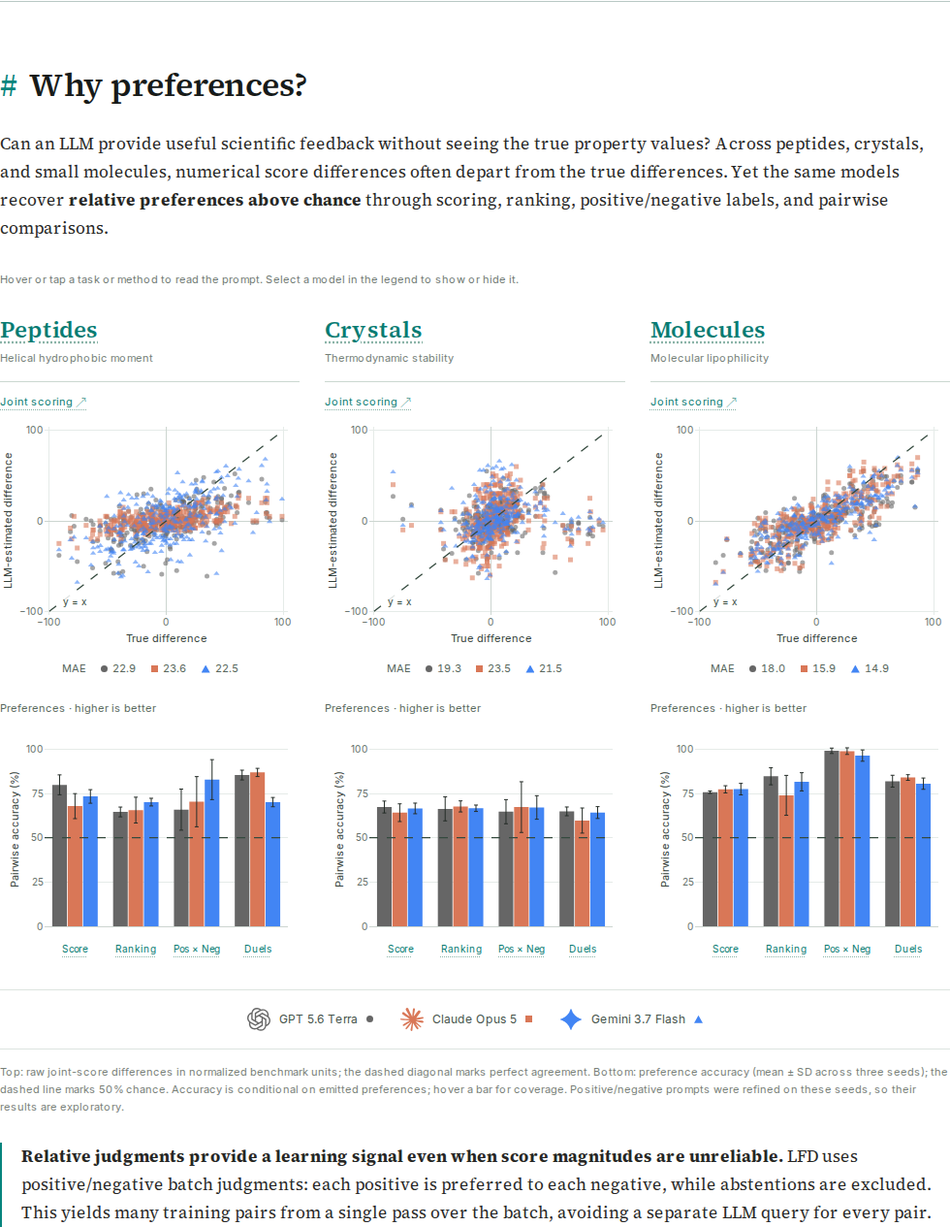
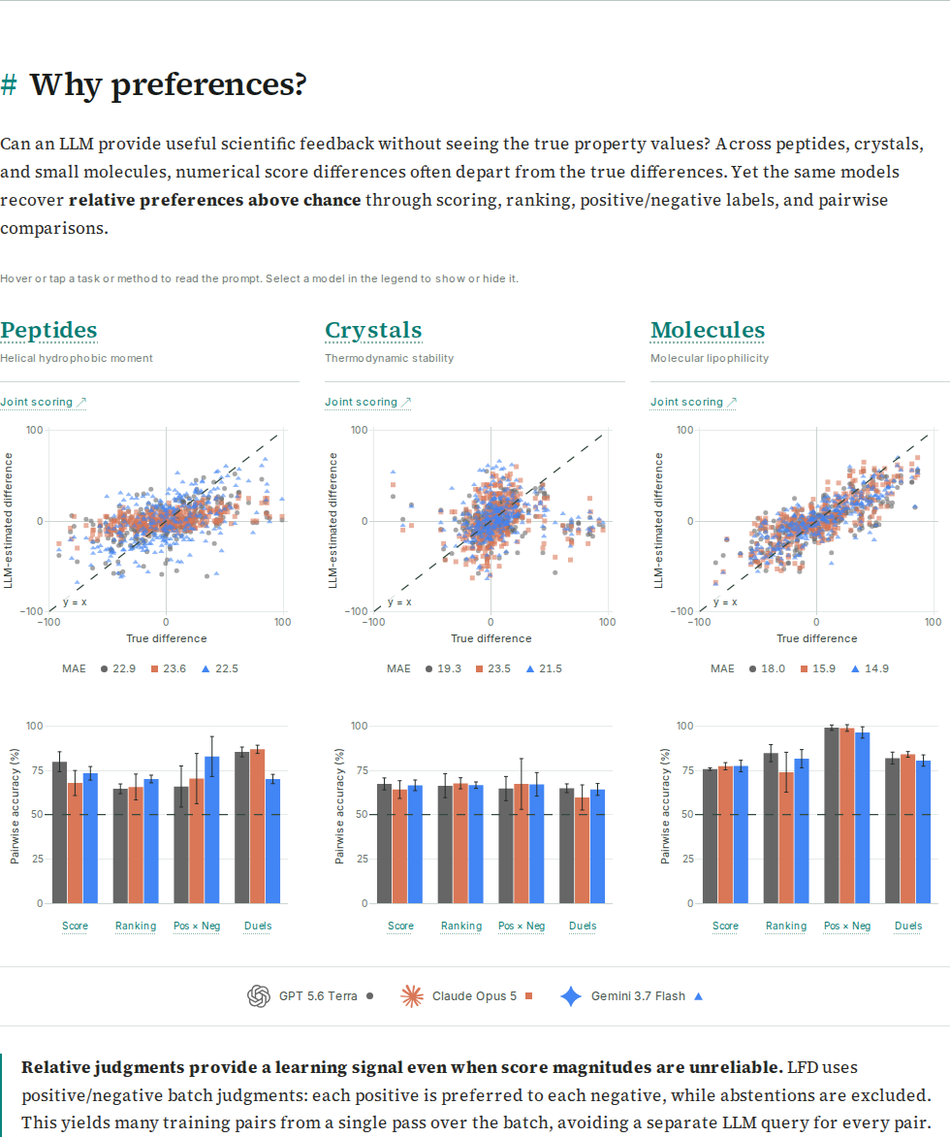
Simplify result labels and place Method before preferences

diff --git a/index.html b/index.html
@@ -16,12 +16,12 @@
   <link rel="preload" href="assets/fonts/source-serif-4-normal-latin.woff2" as="font" type="font/woff2" crossorigin>
   <link rel="preload" href="assets/fonts/inter-latin.woff2" as="font" type="font/woff2" crossorigin>
   <link rel="stylesheet" href="assets/katex/katex.min.css?v=f76ac5391ddb">
-  <link rel="stylesheet" href="site.css?v=070d38b009f5">
+  <link rel="stylesheet" href="site.css?v=6d7eabfc62a5">
   <script src="assets/katex/katex.min.js?v=608ba6519084" defer></script>
   <script src="data/site-data.js?v=64a47da44cbe" defer></script>
   <script src="assets/plotly/plotly-basic.min.js?v=99784e3abfb0" defer></script>
-  <script src="results.js?v=b1b13d96ac2e" defer></script>
-  <script src="calibration.js?v=0fd909382e11" defer></script>
+  <script src="results.js?v=748db73c27d0" defer></script>
+  <script src="calibration.js?v=96a9d06ad33f" defer></script>
   <script src="site.js?v=898189fff616" defer></script>
 </head>
 <body>
@@ -31,8 +31,8 @@
     <p class="contents-heading">Contents</p>
     <ol id="contents-list" class="contents-list">
       <li><a href="#overview" aria-current="location"><span>Overview</span></a></li>
-      <li><a href="#why-preferences"><span>1. Why preferences?</span></a></li>
-      <li><a href="#method"><span>2. Method</span></a></li>
+      <li><a href="#method"><span>1. Method</span></a></li>
+      <li><a href="#why-preferences"><span>2. Why preferences?</span></a></li>
       <li><a href="#peptides"><span>3. Peptides</span></a></li>
       <li><a href="#molecules"><span>4. Small molecules</span></a></li>
     </ol>
@@ -59,8 +59,8 @@
         <nav class="project-contents" aria-labelledby="project-contents-title">
           <h2 id="project-contents-title">Contents</h2>
           <ol>
-            <li><a href="#why-preferences">1. Why preferences?</a></li>
-            <li><a href="#method">2. Method</a></li>
+            <li><a href="#method">1. Method</a></li>
+            <li><a href="#why-preferences">2. Why preferences?</a></li>
             <li><a href="#peptides">3. Case study: Peptides</a></li>
             <li><a href="#molecules">4. Case study: Small molecules</a></li>
           </ol>
@@ -86,19 +86,6 @@
         <a href="assets/flow_adaptation_smooth.mp4" target="_blank" rel="noopener" aria-label="Open the method overview at full resolution"><video autoplay muted loop playsinline preload="auto" width="2154" height="612" poster="assets/main_ltf.png" aria-label="LLM-to-Flow Distillation overview: a scientist gives a discovery goal to an LLM teacher, which sets subgoals and evaluates a flow student as its distribution moves toward the discovery region."><source src="assets/flow_adaptation_smooth.mp4" type="video/mp4"><img src="assets/main_ltf.png" width="4546" height="1285" alt="LLM-to-Flow Distillation overview: the teacher guides the flow student toward a discovery goal."></video></a>
         <figcaption class="overview-controls"><button id="animation-toggle" type="button" aria-pressed="false">Pause animation</button><a href="assets/flow_adaptation_smooth.mp4" target="_blank" rel="noopener">View full size ↗</a></figcaption>
       </figure>
-    </section>
-
-    <section id="why-preferences" class="preferences-section wrap" aria-labelledby="preferences-title">
-      <h2 id="preferences-title" class="section-heading"><a class="section-anchor" href="#why-preferences" aria-label="Link to Why preferences?">#</a><span>Why preferences?</span></h2>
-      <p>Can an LLM provide useful scientific feedback without seeing the true property values? Across peptides, crystals, and small molecules, numerical score differences often depart from the true differences. Yet the same models recover <strong>relative preferences above chance</strong> through scoring, ranking, positive/negative labels, and pairwise comparisons.</p>
-      <figure class="calibration-figure" aria-label="Score agreement and preference accuracy across three scientific domains" aria-describedby="calibration-caption">
-        <p class="calibration-hint">Hover or tap a task or method to read the prompt. Select a model in the legend to show or hide it.</p>
-        <div id="calibration-grid" class="calibration-grid"></div>
-        <div id="calibration-legend" class="calibration-legend" role="group" aria-label="Models shown in all six plots"></div>
-        <figcaption id="calibration-caption">Top: raw joint-score differences in normalized benchmark units; the dashed diagonal marks perfect agreement. Bottom: preference accuracy (mean ± SD across three seeds); the dashed line marks 50% chance. Accuracy is conditional on emitted preferences; hover a bar for coverage. Positive/negative prompts were refined on these seeds, so their results are exploratory.</figcaption>
-      </figure>
-      <p class="preferences-takeaway"><strong>Relative judgments provide a learning signal even when score magnitudes are unreliable.</strong> LFD uses positive/negative batch judgments: each positive is preferred to each negative, while abstentions are excluded. This yields many training pairs from a single pass over the batch, avoiding a separate LLM query for every pair.</p>
-      <noscript><p>Enable JavaScript to explore the calibration results and elicitation prompts.</p></noscript>
     </section>
 
     <div class="method-band">
@@ -163,6 +150,18 @@
     </section>
 
     </div>
+
+    <section id="why-preferences" class="preferences-section wrap" aria-labelledby="preferences-title">
+      <h2 id="preferences-title" class="section-heading"><a class="section-anchor" href="#why-preferences" aria-label="Link to Why preferences?">#</a><span>Why preferences?</span></h2>
+      <p>Can an LLM provide useful scientific feedback without seeing the true property values? Across peptides, crystals, and small molecules, numerical score differences often depart from the true differences. Yet the same models recover <strong>relative preferences above chance</strong> through scoring, ranking, positive/negative labels, and pairwise comparisons.</p>
+      <figure class="calibration-figure" aria-label="Score agreement and preference accuracy across three scientific domains">
+        <p class="calibration-hint">Hover or tap a task or method to read the prompt. Select a model in the legend to show or hide it.</p>
+        <div id="calibration-grid" class="calibration-grid"></div>
+        <div id="calibration-legend" class="calibration-legend" role="group" aria-label="Models shown in all six plots"></div>
+      </figure>
+      <p class="preferences-takeaway"><strong>Relative judgments provide a learning signal even when score magnitudes are unreliable.</strong> LFD uses positive/negative batch judgments: each positive is preferred to each negative, while abstentions are excluded. This yields many training pairs from a single pass over the batch, avoiding a separate LLM query for every pair.</p>
+      <noscript><p>Enable JavaScript to explore the calibration results and elicitation prompts.</p></noscript>
+    </section>
 
     <section id="results" class="results-section wrap section-space" aria-labelledby="results-title">
       <h2 id="results-title" class="sr-only">Experiments on peptides and small molecules</h2>

diff --git a/site.css b/site.css
@@ -610,10 +610,11 @@ footer { padding-block: 26px; border-top: 1px solid var(--line); display: flex; 
 #results-table thead th { font-size: 13px; font-weight: 600; background: #fafbfc; }
 #results-table .table-method { font-size: 16px; font-weight: 600; }
 #results-table .table-mean { font-weight: 500; font-size: 15px; color: #343d4a; }
-#results-table .table-uncertainty { color: #666f7e; font-size: 12px; font-weight: 400; }
+#results-table .table-uncertainty { color: #343d4a; font-size: 12px; font-weight: 400; }
 #results-table tr.ours { background: var(--goal-surface); }
 #results-table tr.ours th { color: var(--goal-strong); box-shadow: inset 3px 0 var(--goal-accent); }
 #results-table .best .table-mean { font-weight: 700; color: var(--goal-strong); }
+#results-table .best .table-uncertainty { color: var(--goal-strong); }
 .discovery-summary { display: grid; grid-template-columns: minmax(0,1fr) minmax(0,360px); gap: 32px; padding: 0 0 28px; align-items: center; }
 .discovery-prior { padding: 0 0 20px; border-bottom: 1px solid var(--goal-border); }
 .discovery-zero { display: flex; align-items: baseline; flex-wrap: wrap; gap: 10px; font-size: 58px; font-weight: 600; letter-spacing: -1.8px; line-height: 1.3; color: var(--goal-strong); font-variant-numeric: tabular-nums; }
@@ -762,7 +763,6 @@ footer { padding-block: 26px; border-top: 1px solid var(--line); display: flex; 
 .calibration-legend button[aria-pressed="false"] { opacity: .35; }
 .calibration-legend button[aria-pressed="false"] > span:nth-child(2) { text-decoration: line-through; }
 .calibration-logo { width: 24px; height: 24px; background: var(--model-color); mask: var(--logo) center / contain no-repeat; -webkit-mask: var(--logo) center / contain no-repeat; }
-.calibration-figure figcaption { margin-top: 14px; font: 11px/1.65 var(--sans); color: #788078; text-align: left; }
 .preferences-takeaway { border-left: 2px solid #07857d; padding-left: 20px; margin-top: 28px; }
 .calibration-prompt-dialog { position: fixed; z-index: 100; width: min(470px,calc(100vw - 24px)); max-height: min(660px,calc(100dvh - 24px)); overflow-y: auto; padding: 22px; border: 1px solid #a6beb0; border-radius: 7px; background: #fff; box-shadow: 0 12px 38px #19372526; font: 13px/1.65 var(--sans); color: #35463a; }
 .calibration-prompt-dialog[hidden] { display: none; }
@@ -804,16 +804,14 @@ footer { padding-block: 26px; border-top: 1px solid var(--line); display: flex; 
 .result-snapshot h4 { margin: 0 0 1px; color: var(--goal-strong); font-size: 18px; line-height: 1.4; font-weight: 600; }
 .snapshot-metric { margin: 0 0 16px; color: #727c77; font: 11px/1.5 var(--sans); }
 .snapshot-metric .metric-help-label { font-size: 11px; min-height: 22px; padding: 0; }
-.snapshot-comparison { display: flex; align-items: center; gap: 24px; margin: 0 0 18px; }
+.snapshot-comparison { display: flex; align-items: center; gap: 16px; margin: 0; }
 .snapshot-value { display: flex; flex-direction: column; }
 .snapshot-value > span:first-child { font: 10px/1.4 var(--sans); color: #757d78; margin-bottom: 5px; }
-.snapshot-value strong { font-size: 31px; font-weight: 400; letter-spacing: -.5px; line-height: 1.3; font-variant-numeric: tabular-nums; }
+.snapshot-value strong { display: inline-flex; align-items: baseline; gap: 5px; white-space: nowrap; font-size: 31px; font-weight: 400; letter-spacing: -.5px; line-height: 1.3; font-variant-numeric: tabular-nums; }
 .snapshot-value strong small { font-size: .6em; margin-left: 2px; }
 .snapshot-ours strong, .snapshot-ours > span:first-child { color: #8732ad; }
-.snapshot-uncertainty { font: 11px/1.4 var(--sans); color: #737b76; margin-top: 3px; }
+.snapshot-uncertainty { font: 11px/1.4 var(--sans); color: inherit; letter-spacing: 0; }
 .snapshot-arrow { color: #9ba9a0; font-size: 21px; }
-.snapshot-link { display: flex; align-items: center; gap: 18px; min-height: 32px; margin-top: auto; border: 0; border-bottom: 1px solid #c9d6cf; background: none; padding: 3px 0; font: 12px/1.5 var(--sans); color: var(--goal-strong); }
-.snapshot-link:hover { border-color: currentColor; }
 .snapshot-hit { display: grid; gap: 9px; margin: 0 0 15px; font: 10px/1.5 var(--sans); color: #69766e; }
 .snapshot-hit > span { display: block; }
 .snapshot-hit strong { display: block; font: 23px/1.35 var(--serif); color: #2d473a; }
@@ -854,6 +852,11 @@ footer { padding-block: 26px; border-top: 1px solid var(--line); display: flex; 
   .hero-figure { width: 100%; margin-inline: 0; }
   .overview-controls { margin-inline: 0; }
 }
+@media (min-width: 761px) and (max-width: 900px) {
+  #molecules .case-results-summary { grid-template-columns: repeat(2,minmax(0,1fr)); }
+  .discovery-snapshot { grid-column: 1 / -1; border-left: 0 !important; border-top: 1px solid var(--goal-border); padding: 22px 0 0 !important; }
+  .snapshot-hit { grid-template-columns: repeat(2,minmax(0,1fr)); gap: 24px; width: 100%; }
+}
 @media (max-width: 760px) {
   .affiliations { display: grid; grid-template-columns: repeat(3,minmax(0,1fr)); gap: 12px 14px; }
   .institution { justify-content: flex-start; }
@@ -876,7 +879,7 @@ footer { padding-block: 26px; border-top: 1px solid var(--line); display: flex; 
 @media (max-width: 520px) {
   .case-results-summary, #molecules .case-results-summary { grid-template-columns: minmax(0,1fr); }
   .result-snapshot + .result-snapshot { border-left: 0; border-top: 1px solid var(--goal-border); padding: 20px 0 0; }
-  .snapshot-comparison { gap: 28px; }
+  .snapshot-comparison { gap: 16px; }
   .snapshot-value strong { font-size: 31px; }
   .snapshot-hit { grid-template-columns: 1fr; gap: 12px; }
   .result-card { padding-inline: 17px 45px; }
@@ -885,6 +888,10 @@ footer { padding-block: 26px; border-top: 1px solid var(--line); display: flex; 
   .goal-prompt { font-size: 14px; }
   #figure-viewer { width: calc(100vw - 24px); padding: 16px; }
   #figure-viewer-title { font-size: 16px; }
+}
+@media (min-width: 521px) and (max-width: 680px) {
+  .case-results-summary, #molecules .case-results-summary { grid-template-columns: minmax(0,1fr); }
+  .result-snapshot + .result-snapshot { border-left: 0; border-top: 1px solid var(--goal-border); padding: 20px 0 0; }
 }
 
 /* A visible contents list and resource previews, following the reading order. */

diff --git a/results.js b/results.js
@@ -267,17 +267,16 @@
     const names={anticancer:'Selective anticancer activity',cpp:'Cell penetration',d2:'Dopamine D2 binding',gsk3b:'GSK3β binding',ood:'Specified ring motifs'};
     const result=results.find(item=>item.id===id);
     const heading=`<h4>${names[id]}</h4>`;
-    const link=`<button type="button" class="snapshot-link" data-open-result="${id}">Explore results <span aria-hidden="true">↗</span><span class="sr-only"> for ${names[id]}</span></button>`;
     if (!result) {
       const evidence=window.LFD_DATA.resultPanels.oodEvidence;
-      return `<article class="result-snapshot discovery-snapshot">${heading}<p class="snapshot-metric">Full discovery prompt</p><div class="snapshot-hit"><span><strong>0 / ${evidence.pretrained.attempts.toLocaleString('en-US')}</strong> pretrained samples satisfy the goal</span><span><strong>A full-goal hit</strong> LFD · round ${evidence.lfd.round}, ${evidence.lfd.batchSize} samples</span></div>${link}</article>`;
+      return `<article class="result-snapshot discovery-snapshot">${heading}<p class="snapshot-metric">Full discovery prompt</p><div class="snapshot-hit"><span><strong>0 / ${evidence.pretrained.attempts.toLocaleString('en-US')}</strong> pretrained samples satisfy the goal</span><span><strong>A full-goal hit</strong> LFD · round ${evidence.lfd.round}, ${evidence.lfd.batchSize} samples</span></div></article>`;
     }
     const metric=metricKeys(result)[0];
     const values=['Pre-trained','LFD'].map(method=>{
       const [mean,error]=result.rows.find(row=>row.method===method).values[0];
-      return `<div class="snapshot-value ${method==='LFD' ? 'snapshot-ours' : ''}"><span>${method==='Pre-trained' ? 'Pretrained' : 'LFD'}</span><strong>${mean.toFixed(2)}<small>${result.unit==='%' ? '%' : ''}</small></strong><span class="snapshot-uncertainty">± ${error.toFixed(2)}</span></div>`;
+      return `<div class="snapshot-value ${method==='LFD' ? 'snapshot-ours' : ''}"><span>${method==='Pre-trained' ? 'Pretrained' : 'LFD'}</span><strong><span class="snapshot-mean">${mean.toFixed(2)}<small>${result.unit==='%' ? '%' : ''}</small></span><span class="snapshot-uncertainty">± ${error.toFixed(2)}</span></strong></div>`;
     });
-    return `<article class="result-snapshot" data-snapshot="${id}">${heading}<div class="snapshot-metric">${metricLabel(metric,result.metrics[0].label+' ↑')}</div><div class="snapshot-comparison">${values[0]}<span class="snapshot-arrow" aria-hidden="true">→</span>${values[1]}</div>${link}</article>`;
+    return `<article class="result-snapshot" data-snapshot="${id}">${heading}<div class="snapshot-metric">${metricLabel(metric,result.metrics[0].label+' ↑')}</div><div class="snapshot-comparison">${values[0]}<span class="snapshot-arrow" aria-hidden="true">→</span>${values[1]}</div></article>`;
   }
   function init(results) {
     const data=window.LFD_DATA;
@@ -407,17 +406,6 @@
       $('#curriculum-'+task.id+'-'+task.stages[next].id).focus({preventScroll:true});
     });
     cards.addEventListener('click',event=>{
-      const snapshot=event.target.closest('[data-open-result]');
-      if (snapshot) {
-        const id=snapshot.dataset.openResult;
-        if (active!==id) render(id);
-        if ($('#goal-results-toggle').getAttribute('aria-expanded')!=='true') $('#goal-results-toggle').click();
-        requestAnimationFrame(()=>{
-          $('#goal-results-toggle').focus({preventScroll:true});
-          $('#goal-results-title').scrollIntoView({block:'start',behavior:'instant'});
-        });
-        return;
-      }
       const card=event.target.closest('[data-result-task]');
       if (!card) return;
       if (active===card.dataset.resultTask) closeGoal();

diff --git a/calibration.js b/calibration.js
@@ -19,7 +19,6 @@
       <div class="calibration-mae" aria-label="Mean absolute error"><span>MAE</span>${domain.series.map(series => {const model = data.models.find(m => m.id === series.model); return `<span data-mae-model="${model.id}" title="${esc(model.label)}: mean absolute error ${series.mae.toFixed(2)}">${marker(model)}${series.mae.toFixed(1)}</span>`;}).join('')}</div>
     </div>
     <div class="calibration-accuracy-panel">
-      <p class="calibration-row-label">Preferences · higher is better</p>
       <div id="calibration-bars-${domain.id}" class="calibration-plot calibration-bars" tabindex="0" role="group" aria-label="${esc(domain.label)}: pairwise accuracy by elicitation method. Arrow keys inspect bars; Escape dismisses the value."></div>
       <div class="calibration-methods">${data.methods.map(method => promptButton(domain, method, esc(data.prompts.methods[method].label))).join('')}</div>
     </div>
@@ -63,7 +62,7 @@
             customdata: series.bars.map(b => [data.prompts.methods[b.method].label, b.sd, b.emitted, b.selected]),
             marker: {color: model.color},
             error_y: {type: 'data', array: series.bars.map(b => b.sd), visible: true, color: '#252d28', thickness: 1, width: 2},
-            hovertemplate: `<b>${esc(model.label)}</b><br>%{customdata[0]} · ${esc(domain.label)}<br>Accuracy: %{y:.2f}% ± %{customdata[1]:.2f} SD<br>Emitted pairs: %{customdata[2]} / %{customdata[3]}<br>Mean across 3 seeds<extra></extra>`};
+            hovertemplate: `<b>${esc(model.label)}</b><br>%{customdata[0]} · ${esc(domain.label)}<br>Accuracy: %{y:.2f}% ± %{customdata[1]:.2f} SD<extra></extra>`};
         });
         await Plotly.newPlot(element, traces, layout(kind), {responsive: true, displayModeBar: false, scrollZoom: false});
         charts.push(element);
@@ -77,7 +76,7 @@
           selected = (selected + (['ArrowLeft', 'ArrowUp'].includes(event.key) ? -1 : 1) + points.length) % points.length;
           const point = points[selected], trace = traces[point.curveNumber], i = point.pointNumber;
           Plotly.Fx.hover(element, [point]);
-          live.textContent = kind === 'scatter' ? `${trace.name}. True difference ${trace.x[i].toFixed(2)}; LLM difference ${trace.y[i].toFixed(2)}.` : `${trace.name}, ${trace.customdata[i][0]}. Accuracy ${trace.y[i].toFixed(2)} percent, SD ${trace.customdata[i][1].toFixed(2)}; ${trace.customdata[i][2]} of 288 pairs emitted.`;
+          live.textContent = kind === 'scatter' ? `${trace.name}. True difference ${trace.x[i].toFixed(2)}; LLM difference ${trace.y[i].toFixed(2)}.` : `${trace.name}, ${trace.customdata[i][0]}. Accuracy ${trace.y[i].toFixed(2)} percent, SD ${trace.customdata[i][1].toFixed(2)}.`;
         });
         element.addEventListener('blur', () => Plotly.Fx.unhover(element));
       }

diff --git a/scripts/check_case_studies.py b/scripts/check_case_studies.py
@@ -41,7 +41,7 @@ def main():
             for group, ids in [('peptides', ['anticancer', 'cpp']), ('molecules', ['d2', 'gsk3b', 'ood'])]:
                 section = page.locator('#' + group)
                 assert section.locator('[data-result-task]').evaluate_all('(els)=>els.map(el=>el.dataset.resultTask)') == ids
-                assert section.locator('[data-open-result]').evaluate_all('(els)=>els.map(el=>el.dataset.openResult)') == ids
+                assert section.locator('[data-open-result], .snapshot-link').count() == 0
             # Summary values come from the same exact means and uncertainty terms as the full tables.
             for result in results:
                 card = page.locator(f'[data-snapshot="{result["id"]}"]')
@@ -49,8 +49,15 @@ def main():
                     mean, error = next(row for row in result['rows'] if row['method'] == method)['values'][0]
                     value = card.locator('.snapshot-value').nth(index)
                     unit = '%' if result['unit'] == '%' else ''
-                    expect(value.locator('strong')).to_have_text(f'{mean:.2f}{unit}')
+                    expect(value.locator('.snapshot-mean')).to_have_text(f'{mean:.2f}{unit}')
                     expect(value.locator('.snapshot-uncertainty')).to_have_text(f'± {error:.2f}')
+                    assert value.evaluate('''el => {
+                        const mean = el.querySelector('.snapshot-mean'), sd = el.querySelector('.snapshot-uncertainty');
+                        const a = mean.getBoundingClientRect(), b = sd.getBoundingClientRect();
+                        return getComputedStyle(mean).color === getComputedStyle(sd).color &&
+                            parseFloat(getComputedStyle(sd).fontSize) < parseFloat(getComputedStyle(mean).fontSize) &&
+                            b.x >= a.right && b.x - a.right < 8 && b.top < a.bottom;
+                    }''')
             hit = page.locator('.discovery-snapshot')
             expect(hit).to_contain_text(f'0 / {evidence["pretrained"]["attempts"]:,}')
             expect(hit).to_contain_text(f'round {evidence["lfd"]["round"]}, {evidence["lfd"]["batchSize"]} samples')
@@ -64,15 +71,16 @@ def main():
             expect(control).to_have_text('Pause animation')
             control.click()
             expect(video).to_have_js_property('paused', True)
-            # Direct result links open the correct goal and skip no data in the comparison.
+            # Results remain accessible through the goal and its Results disclosure.
             for task in ['anticancer', 'cpp', 'd2', 'gsk3b', 'ood']:
-                button = page.locator(f'[data-open-result="{task}"]')
+                button = page.locator(f'[data-result-task="{task}"]')
                 if width == 390:
                     button.tap()
                 else:
                     button.focus()
                     page.keyboard.press('Enter')
                 expect(page.locator(f'[data-result-task="{task}"]')).to_have_attribute('aria-expanded', 'true')
+                page.locator('#goal-results-toggle').click()
                 expect(page.locator('#goal-results-content')).to_be_visible()
                 expect(page.locator('#goal-results-toggle')).to_be_focused()
                 page.wait_for_function('(task)=>document.querySelector("#task-results-panel").dataset.plotReadyTask===task', arg=task)
@@ -80,6 +88,9 @@ def main():
                 if task != 'ood':
                     source = next(item for item in results if item['id'] == task)
                     assert page.locator('#results-table tbody tr').count() == len(source['rows'])
+                    assert page.locator('#results-table tbody td').evaluate_all('''cells => cells.every(cell =>
+                        getComputedStyle(cell.querySelector('.table-mean')).color ===
+                        getComputedStyle(cell.querySelector('.table-uncertainty')).color)''')
                 else:
                     expect(page.locator('#result-discovery')).to_be_visible()
                 if task in ['d2', 'gsk3b', 'ood']:
@@ -127,7 +138,7 @@ def main():
     assert not errors, errors
     assert not failures, failures
     report = {'status': 'passed', 'author_links': 9, 'institution_logos': 6,
-              'case_studies': 2, 'source_derived_summaries': 5, 'direct_results': 'keyboard and touch',
+              'case_studies': 2, 'source_derived_summaries': 5, 'goal_results': 'keyboard and touch',
               'figure_viewer': '3 figures, keyboard and touch, focus restoration',
               'reduced_motion_and_playback': 'passed', 'viewports': [390, 768, 1440],
               'browser_errors': errors, 'failed_requests': failures}

diff --git a/scripts/check_browser.py b/scripts/check_browser.py
@@ -43,13 +43,13 @@ def main():
         page.evaluate('window.scrollTo({top: 300, behavior: "instant"})')
         expect(page.locator('#contents')).to_be_visible()
         expect(page.locator('.contents-list a[aria-current]')).to_have_attribute('href', '#overview')
-        for section in ['why-preferences', 'method', 'peptides', 'molecules']:
+        for section in ['method', 'why-preferences', 'peptides', 'molecules']:
             page.locator(f'.contents-list a[href="#{section}"]').click()
             expect(page.locator('.contents-list a[aria-current]')).to_have_attribute('href', '#' + section)
             assert page.evaluate('location.hash') == '#' + section
             assert page.evaluate('document.activeElement.closest("section").id') == section
         # Scroll independently from the menu; tracking must work in both directions.
-        for section in ['molecules', 'peptides', 'method', 'why-preferences']:
+        for section in ['molecules', 'peptides', 'why-preferences', 'method']:
             page.locator('#' + section).evaluate('(el) => el.scrollIntoView({behavior: "instant"})')
             expect(page.locator('.contents-list a[aria-current]')).to_have_attribute('href', '#' + section)
         page.evaluate('window.scrollTo({top: 0, behavior: "instant"})')
@@ -59,7 +59,7 @@ def main():
         expect(page.locator('.paper-preview img')).to_have_js_property('complete', True)
         assert page.locator('.paper-preview img').evaluate('(el)=>el.naturalWidth>0')
         expect(page.locator('.code-button')).to_have_attribute('href', 'https://github.com/FedericoDiGennaro/LLM-to-Flow-Distillation')
-        for section in ['why-preferences', 'method', 'peptides', 'molecules']:
+        for section in ['method', 'why-preferences', 'peptides', 'molecules']:
             page.locator(f'.project-contents a[href="#{section}"]').focus()
             page.keyboard.press('Enter')
             expect(page.locator('.contents-list a[aria-current]')).to_have_attribute('href', '#' + section)
@@ -193,7 +193,7 @@ def main():
                 assert page.evaluate('document.documentElement.scrollWidth') <= width, f'{task["id"]} overflow at {width}px'
             if width < 1280:
                 page.locator('#method').evaluate('(el) => el.scrollIntoView({behavior: "instant"})')
-                expect(page.locator('.contents-current')).to_have_text('2. Method')
+                expect(page.locator('.contents-current')).to_have_text('1. Method')
                 expect(page.locator('.contents-list')).not_to_be_visible()
                 page.locator('.contents-toggle').click()
                 expect(page.locator('.contents-toggle')).to_have_attribute('aria-expanded', 'true')

diff --git a/scripts/check_calibration.py b/scripts/check_calibration.py
@@ -21,6 +21,8 @@ def main():
         page.on('response', lambda r: bad_requests.append(r.url) if r.status >= 400 else None)
         page.goto(args.url + '/#why-preferences', wait_until='networkidle')
         expect(page.locator('#calibration-grid')).to_have_attribute('data-ready', 'true')
+        assert page.locator('.project-contents a').evaluate_all('(els)=>els.map(el=>el.hash)') == ['#method', '#why-preferences', '#peptides', '#molecules']
+        assert page.locator('#method').bounding_box()['y'] < page.locator('#why-preferences').bounding_box()['y'] < page.locator('#peptides').bounding_box()['y']
         assert page.locator('#calibration-grid .js-plotly-plot').count() == 6
         for domain in data['domains']:
             for kind in ['scatter', 'bars']:
@@ -57,7 +59,11 @@ def main():
         bar = page.locator('#calibration-bars-peptide .barlayer .trace').first.locator('.point path').first
         # Plotly's transparent event layer intentionally sits above the SVG bar.
         bar.hover(force=True)
-        expect(page.locator('#calibration-bars-peptide .hovertext')).to_contain_text('Emitted pairs: 274 / 288')
+        expect(page.locator('#calibration-bars-peptide .hovertext')).to_contain_text('Accuracy: 79.89% ± 5.61 SD')
+        expect(page.locator('#calibration-bars-peptide .hovertext')).not_to_contain_text('Emitted pairs')
+        expect(page.locator('#calibration-bars-peptide .hovertext')).not_to_contain_text('Mean across')
+        assert page.locator('#calibration-caption').count() == 0
+        assert 'Preferences · higher is better' not in page.locator('#calibration-grid').inner_text()
         page.locator('#calibration-scatter-peptide').focus()
         page.keyboard.press('ArrowRight')
         expect(page.locator('#calibration-scatter-peptide .hovertext')).to_contain_text('Absolute error')

diff --git a/README.md b/README.md
@@ -74,7 +74,7 @@ Visual references supplied by the authors: [CUES](https://www.sophielwang.com/cu
 
 Interactive chart checks are in `scripts/check_results.py`. They verify all five task switches and keyboard/touch controls, peptide activity/toxicity coordinates, grouped docking deltas with negative improvements, signed hover values and black error bars, the GSK3β novelty plot and table layout, always-visible docking figures, the fifth-task evidence, and layouts from 360px through 2560px.
 
-Case-study checks are in `scripts/check_case_studies.py`. They verify author links and logo loading, source-derived headline results, direct result navigation, figure enlargement and focus restoration, animation controls, and responsive layout.
+Case-study checks are in `scripts/check_case_studies.py`. They verify author links and logo loading, source-derived headline results, goal result disclosures, figure enlargement and focus restoration, animation controls, and responsive layout.
 
 ## Why preferences?
 
